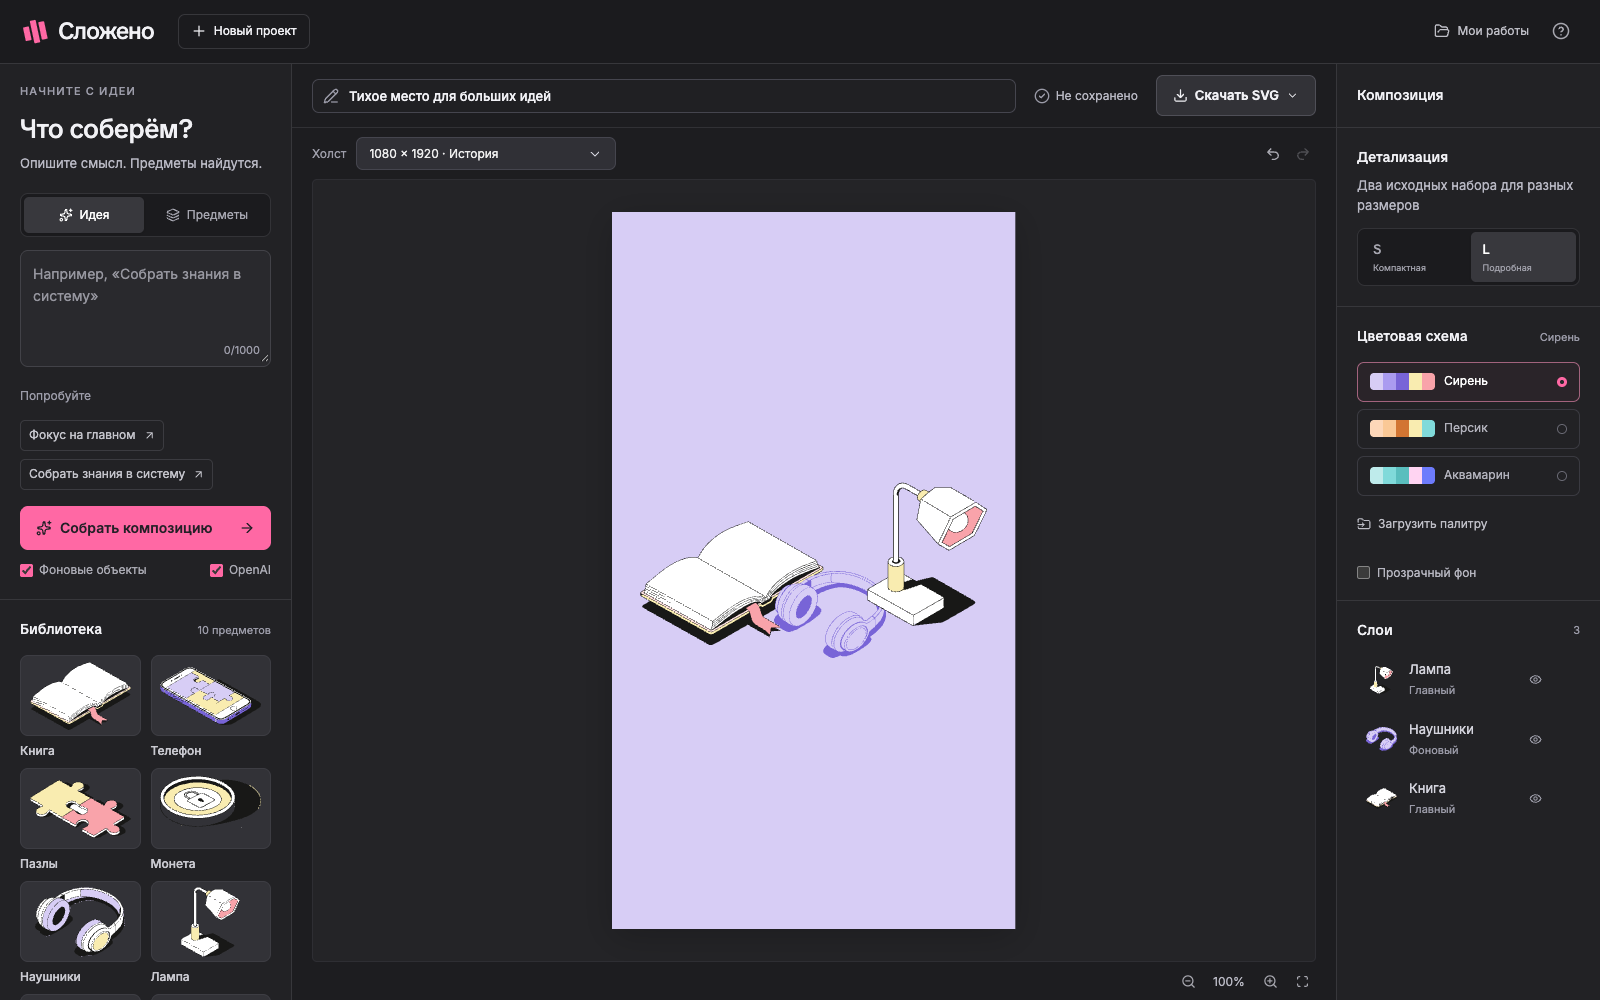
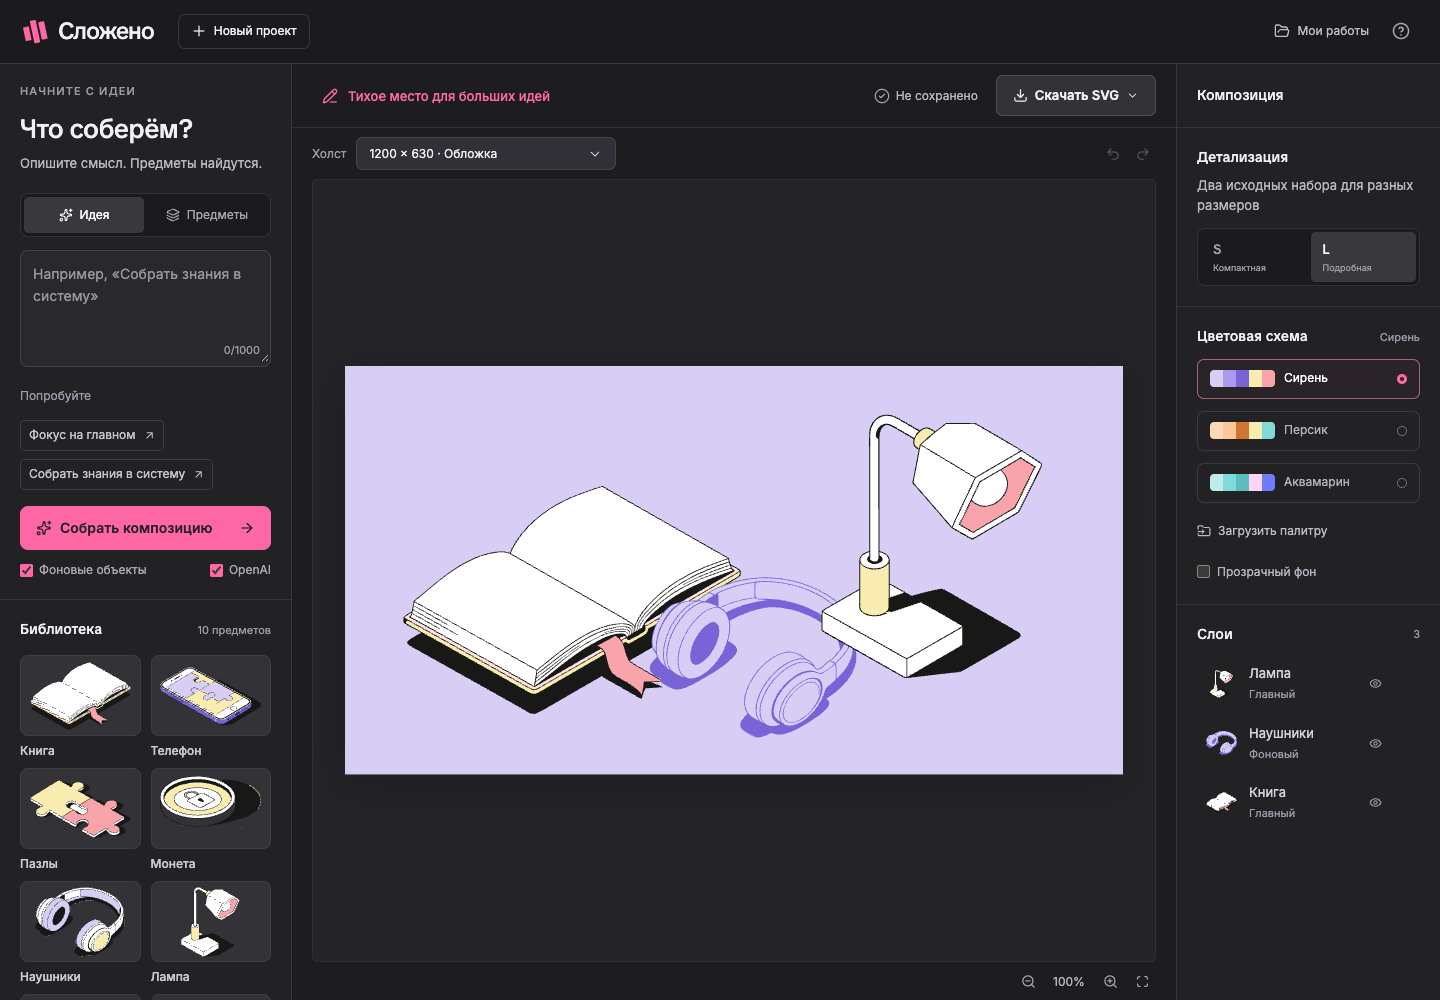
fix: simplify title editing and align palette spacing

diff --git a/frontend/src/ui-tokens.css b/frontend/src/ui-tokens.css
@@ -240,6 +240,23 @@ h3,
   min-height: 40px;
   padding: var(--space-2) var(--space-3);
 }
+.palette-section {
+  display: flex;
+  flex-direction: column;
+  gap: var(--space-3);
+}
+.palette-section .section-title,
+.palette-section .import-palette,
+.palette-section .checkbox-row {
+  margin: 0;
+}
+.palette-section .palettes {
+  gap: var(--space-3);
+}
+.palette-section .import-palette,
+.palette-section .checkbox-row {
+  min-height: 24px;
+}
 .palette-section .tiny-label {
   font-size: var(--type-xs);
 }
@@ -488,26 +505,23 @@ h3,
 }
 .document-title {
   padding: 7px 10px;
-  border: 1px solid #45454e;
-  border-radius: 7px;
-  background: #ffffff03;
+  border: 0;
+  background: transparent;
   cursor: text;
   gap: var(--space-2);
   min-width: 0;
 }
-.document-title:hover {
-  border-color: #77717b;
-  background: #ffffff06;
-}
 .document-title:focus-within {
-  border-color: var(--pink);
-  outline: 2px solid #ff68a420;
+  outline: none;
 }
 .document-title .document-icon {
   color: var(--text-muted);
   display: flex;
 }
-.document-title:focus-within .document-icon {
+.document-title:hover .document-icon,
+.document-title:focus-within .document-icon,
+.document-title:hover input,
+.document-title:focus-within input {
   color: var(--pink);
 }
 .document-title input {

diff --git a/docs/ACCEPTANCE.md b/docs/ACCEPTANCE.md
@@ -138,8 +138,8 @@ Favicon использует розовый знак из шапки; файл S
 девять размеров с центрированием композиции, рабочий fullscreen, центрируемый зум
 и прокрутка увеличенного холста по двум осям. Библиотека без поиска; галерея с
 превью и тем же логотипом; меню SVG/JSON, интерактивная палитра, однократное
-приветствие по cookie. В шапке явная кнопка нового проекта; название оформлено
-редактируемым полем с карандашом. Статус сохранения — два состояния и одна
+приветствие по cookie. В шапке явная кнопка нового проекта; название доступно
+для редактирования с карандашом, текстовым курсором и розовой подсветкой без рамки. Статус сохранения — два состояния и одна
 галочка, без лишнего облачка. Справка описывает новые кнопки и жесты.
 
 Рамка предмета поддерживает угловой и независимый боковой ресайз, ручку вращения,
